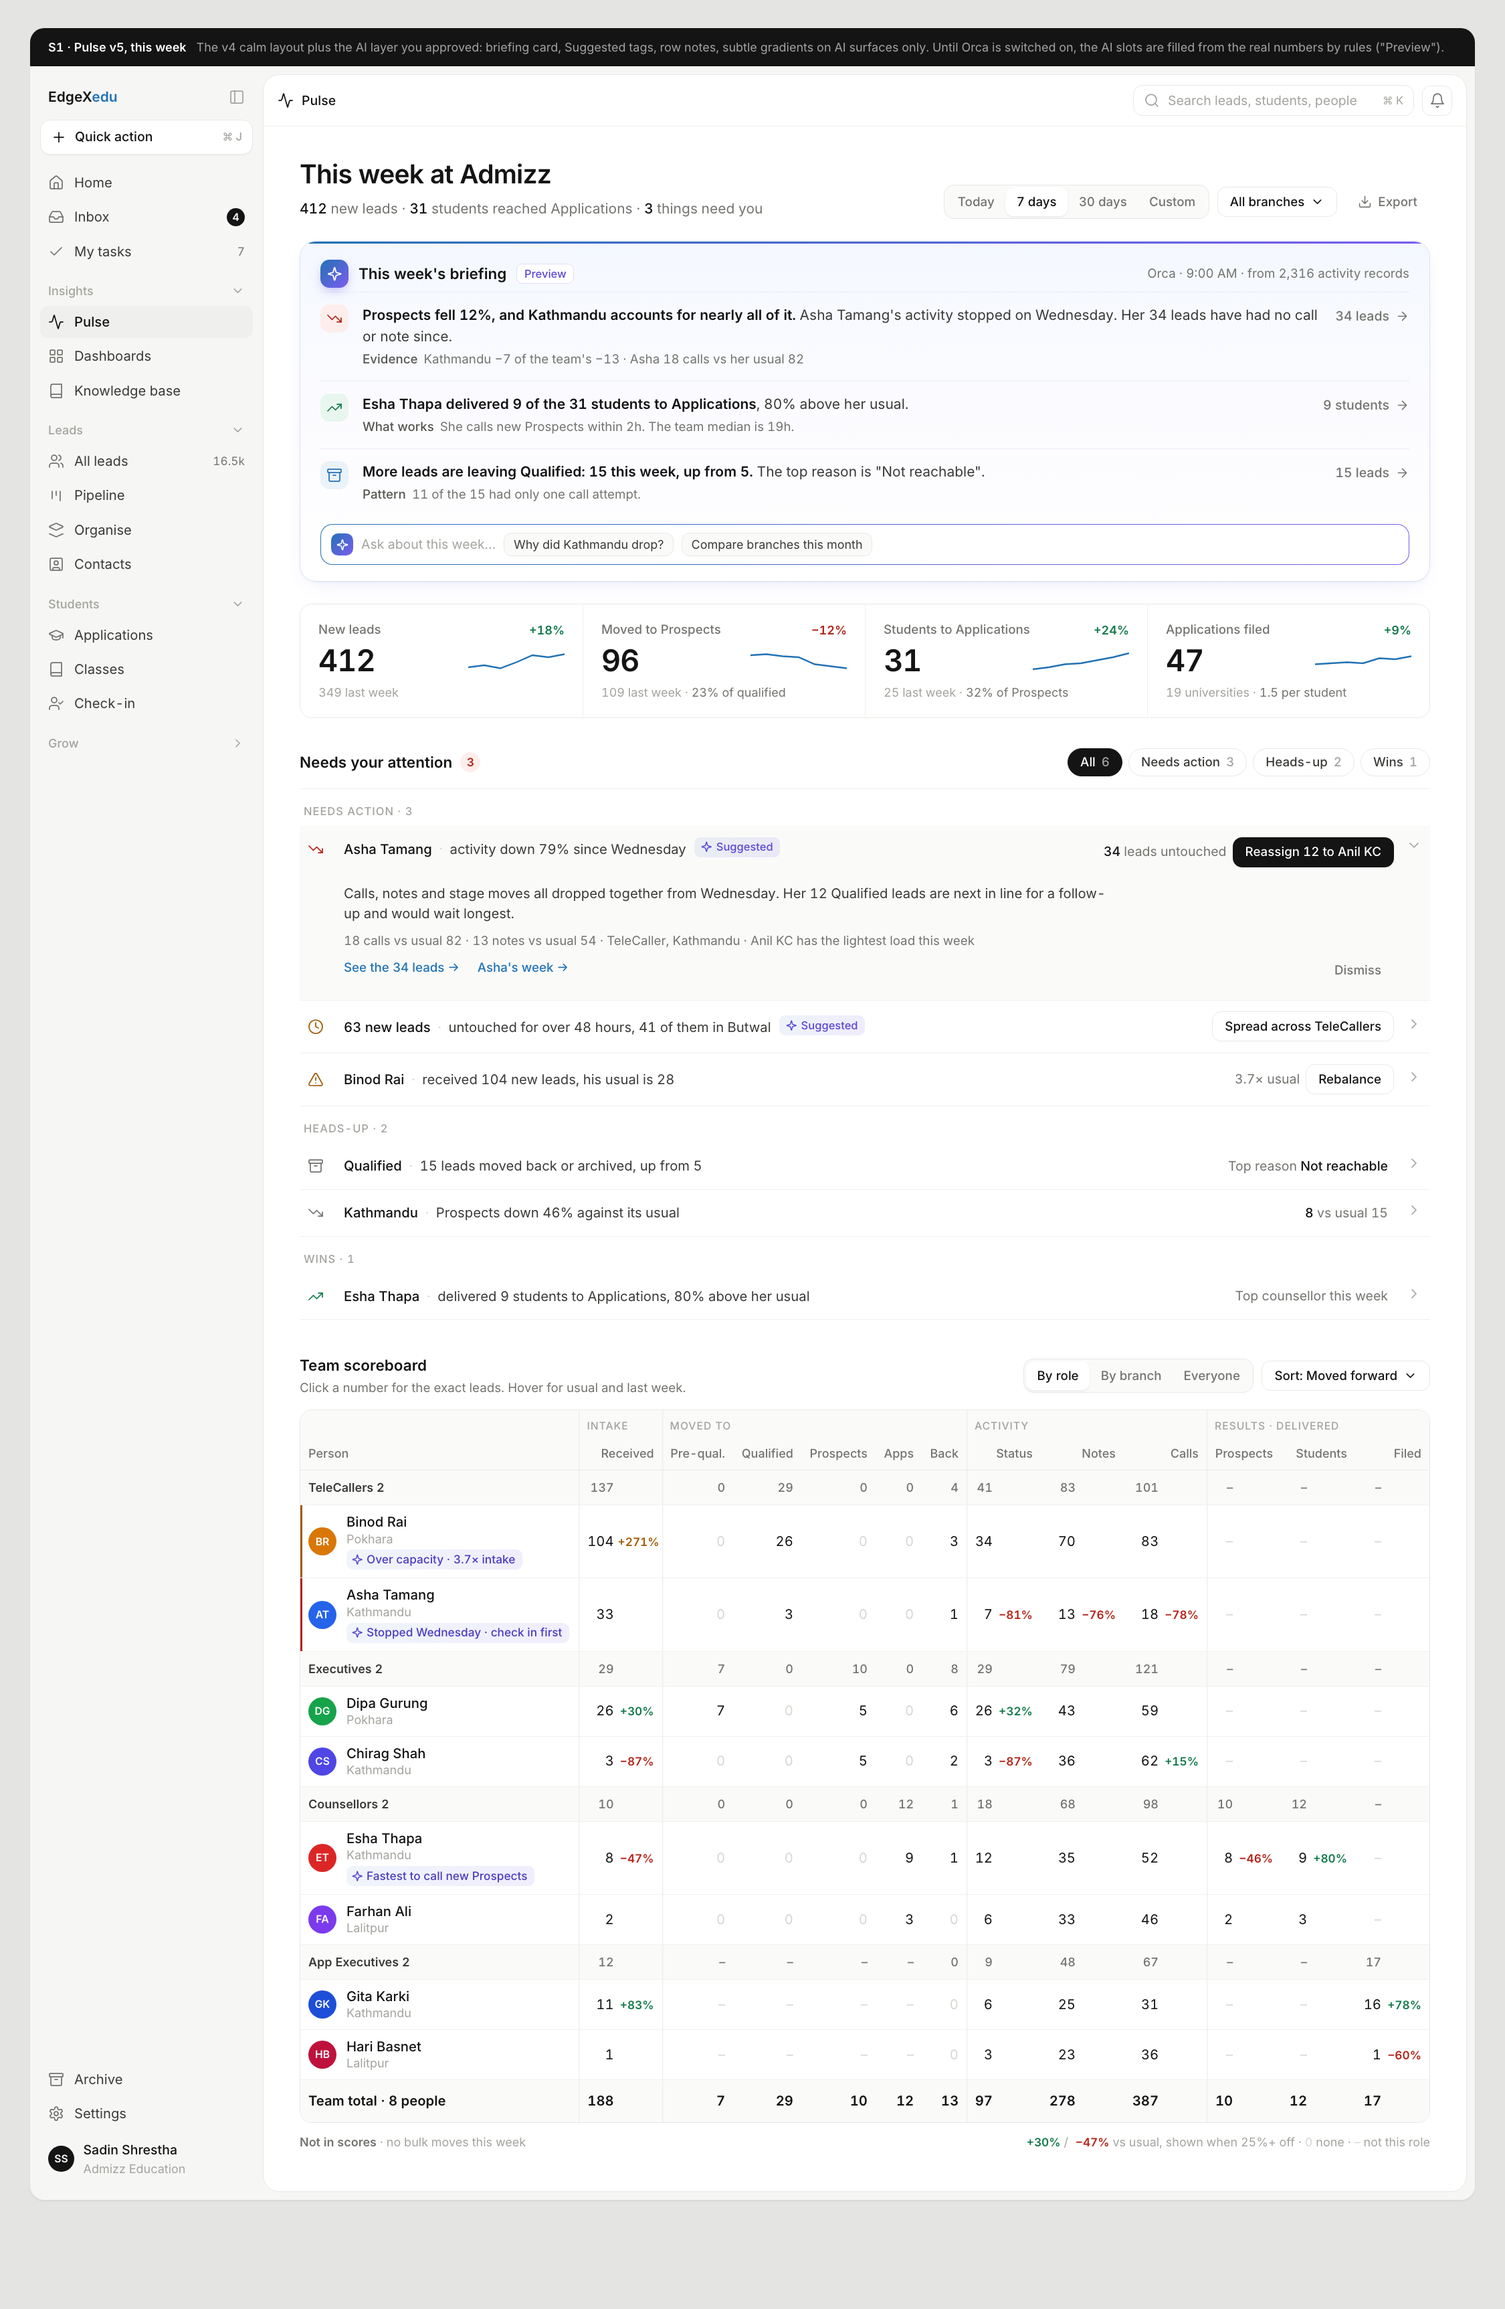
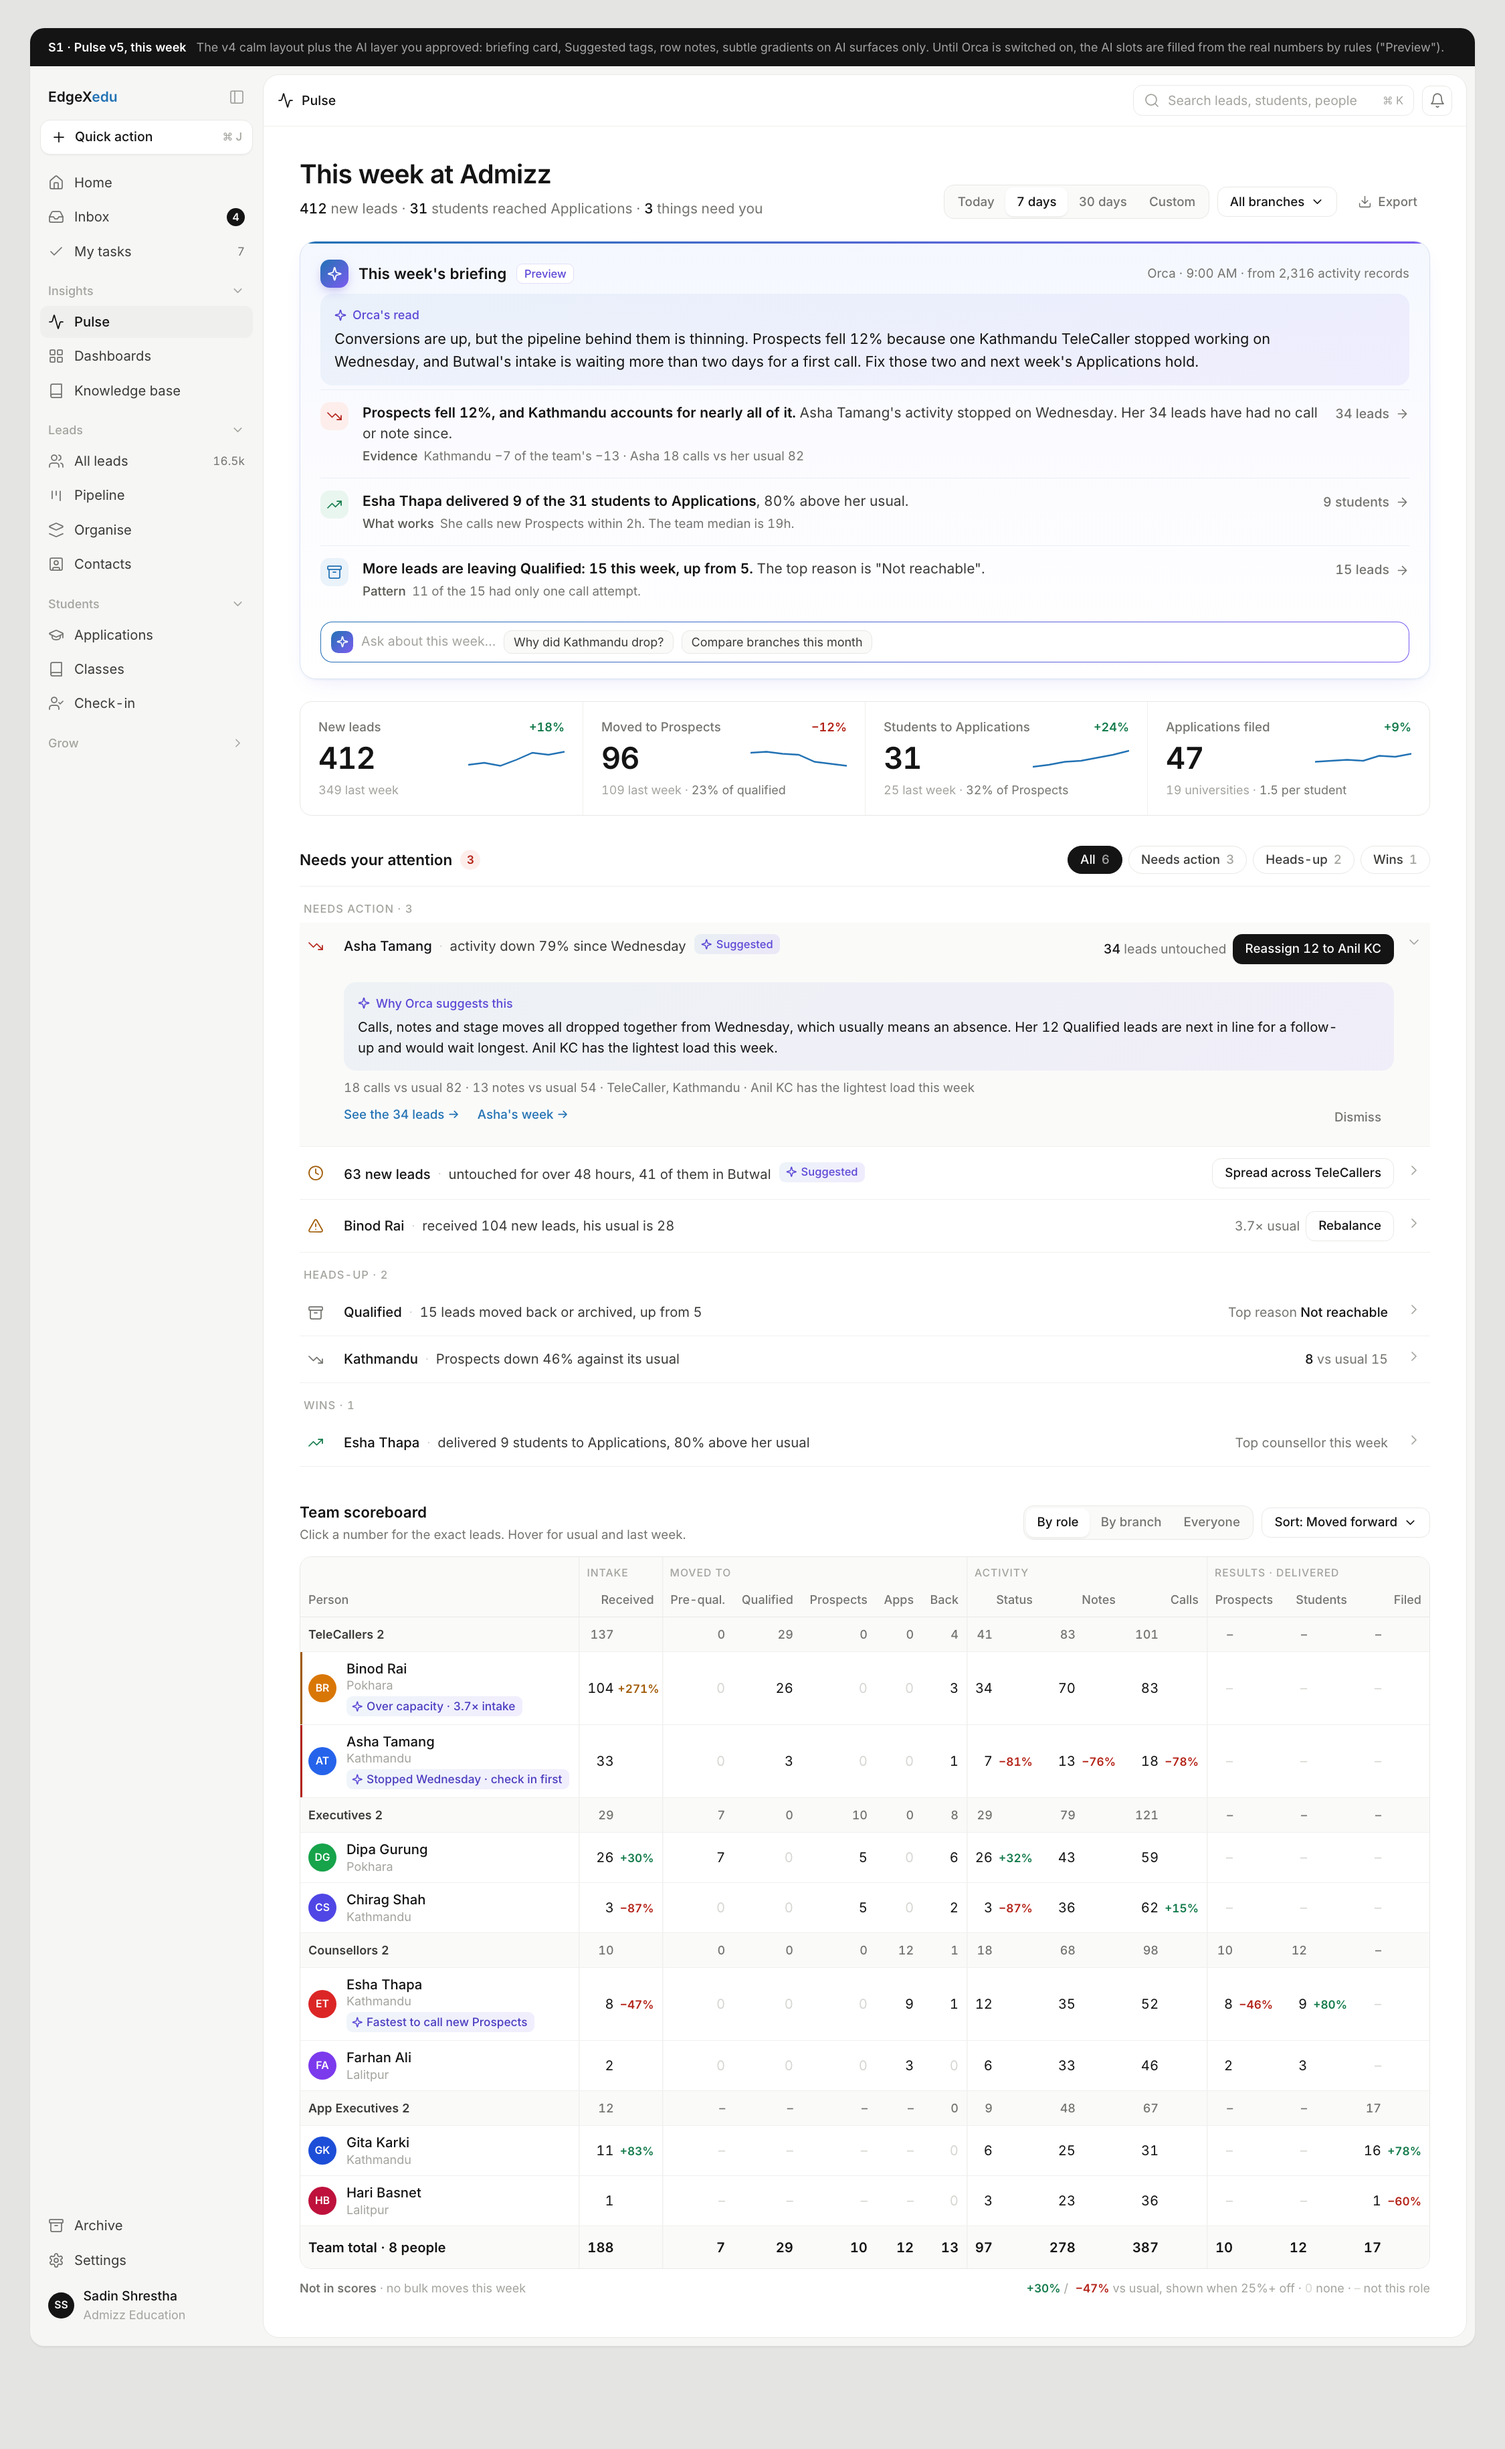
EDGEX-84: AI paragraph block (D16), Orca's read merged into briefing
(cherry picked from commit d5ce8bb5499b3e10682a03bf5620c33b5660282f)

diff --git a/docs/design-system/mockups/pulse-v5.html b/docs/design-system/mockups/pulse-v5.html
@@ -171,6 +171,10 @@ tr.rowflag-am td:first-child{box-shadow:inset 2px 0 0 var(--warn)}
 .sugg svg{width:11px;height:11px;stroke-width:2.2}
 .rnote{display:inline-flex;align-items:center;gap:4px;margin-top:3px;height:20px;padding:0 7px 0 5px;border-radius:6px;background:linear-gradient(135deg,rgba(34,114,180,.07),rgba(124,92,240,.11));color:#4a3cc0;font-size:11.5px;font-weight:500;white-space:nowrap}
 .rnote svg{width:11px;height:11px;stroke-width:2.2;color:var(--ai)}
+.read{margin:6px 0 4px;padding:12px 14px;border-radius:12px;background:linear-gradient(135deg,rgba(34,114,180,.06),rgba(124,92,240,.08));}
+.read .lb{display:flex;align-items:center;gap:6px;color:var(--ai);font-size:12px;font-weight:500;margin-bottom:4px}
+.read .lb svg{width:12px;height:12px;stroke-width:2.2}
+.read p{font-size:14.5px;line-height:1.55;color:var(--ink);max-width:980px}
 </style></head><body>
 <svg width="0" height="0" style="position:absolute">
  <symbol id="spark" viewBox="0 0 24 24"><path d="M9.937 15.5A2 2 0 0 0 8.5 14.063l-6.135-1.582a.5.5 0 0 1 0-.962L8.5 9.936A2 2 0 0 0 9.937 8.5l1.582-6.135a.5.5 0 0 1 .963 0L14.063 8.5A2 2 0 0 0 15.5 9.937l6.135 1.581a.5.5 0 0 1 0 .964L15.5 14.063a2 2 0 0 0-1.437 1.437l-1.582 6.135a.5.5 0 0 1-.963 0z"/></symbol>
@@ -254,6 +258,8 @@ tr.rowflag-am td:first-child{box-shadow:inset 2px 0 0 var(--warn)}
    <div class="brief">
     <div class="bhd"><div class="bt"><span class="badge"><svg class="i"><use href="#spark"/></svg></span>This week's briefing<span class="prev" title="Written from your data by rules. Full AI explanations switch on with Orca.">Preview</span></div>
      <span class="meta">Orca · 9:00 AM · from 2,316 activity records</span></div>
+    <div class="read"><div class="lb"><svg class="i"><use href="#spark"/></svg>Orca's read</div>
+     <p>Conversions are up, but the pipeline behind them is thinning. Prospects fell 12% because one Kathmandu TeleCaller stopped working on Wednesday, and Butwal's intake is waiting more than two days for a first call. Fix those two and next week's Applications hold.</p></div>
     <div class="bi"><span class="tg r"><svg class="i"><use href="#down"/></svg></span><div><p><b>Prospects fell 12%, and Kathmandu accounts for nearly all of it.</b> Asha Tamang's activity stopped on Wednesday. Her 34 leads have had no call or note since.</p><div class="ev"><b>Evidence</b>Kathmandu −7 of the team's −13 · Asha 18 calls vs her usual 82</div></div><span class="go">34 leads<svg class="i s"><use href="#arrow"/></svg></span></div>
     <div class="bi"><span class="tg g"><svg class="i"><use href="#up"/></svg></span><div><p><b>Esha Thapa delivered 9 of the 31 students to Applications</b>, 80% above her usual.</p><div class="ev"><b>What works</b>She calls new Prospects within 2h. The team median is 19h.</div></div><span class="go">9 students<svg class="i s"><use href="#arrow"/></svg></span></div>
     <div class="bi"><span class="tg b"><svg class="i"><use href="#archive"/></svg></span><div><p><b>More leads are leaving Qualified: 15 this week, up from 5.</b> The top reason is "Not reachable".</p><div class="ev"><b>Pattern</b>11 of the 15 had only one call attempt.</div></div><span class="go">15 leads<svg class="i s"><use href="#arrow"/></svg></span></div>
@@ -278,7 +284,7 @@ tr.rowflag-am td:first-child{box-shadow:inset 2px 0 0 var(--warn)}
      <div class="it open"><span class="ic bad"><svg class="i"><use href="#down"/></svg></span>
       <div><div class="ln"><b>Asha Tamang</b><span class="sep">·</span>activity down 79% since Wednesday<span class="sugg"><svg class="i"><use href="#spark"/></svg>Suggested</span></div></div>
       <div class="row"><span class="fig"><b>34</b> leads untouched</span><span class="btn pri">Reassign 12 to Anil KC</span></div><span class="chev"><svg class="i"><use href="#chev"/></svg></span>
-      <div class="exp"><p>Calls, notes and stage moves all dropped together from Wednesday. Her 12 Qualified leads are next in line for a follow-up and would wait longest.</p>
+      <div class="exp"><div class="read" style="margin:2px 0 0"><div class="lb"><svg class="i"><use href="#spark"/></svg>Why Orca suggests this</div><p style="font-size:13.5px">Calls, notes and stage moves all dropped together from Wednesday, which usually means an absence. Her 12 Qualified leads are next in line for a follow-up and would wait longest. Anil KC has the lightest load this week.</p></div>
        <div class="meta">18 calls vs usual 82 · 13 notes vs usual 54 · TeleCaller, Kathmandu · Anil KC has the lightest load this week</div>
        <div class="links"><span class="lnk">See the 34 leads →</span><span class="lnk">Asha's week →</span><span class="btn ghost" style="margin-left:auto;height:24px">Dismiss</span></div></div></div>
      <div class="it"><span class="ic warn"><svg class="i"><use href="#clock"/></svg></span>

diff --git a/docs/design-system/DESIGN-SYSTEM-V2.md b/docs/design-system/DESIGN-SYSTEM-V2.md
@@ -106,7 +106,11 @@ Calm everywhere else, so AI can stand out with a **subtle** signature (Sadin's c
   - a 2px blue→violet top line
   - a gradient sparkle badge
   - a faint violet shadow
+- **AI paragraph block:** any AI-written paragraph sits on a soft blue→violet wash block (radius 12) with a sparkle
+  label ("Orca's read", "Why Orca suggests this"). Examples: Orca's read, the "why" in an expanded attention row, the
+  coaching note in the person view, Ask Orca answers. Long AI text never blends into page text.
 - **Inline AI** ("Suggested" tags, row notes): a soft gradient tint pill with a violet sparkle.
+- **Size ladder:** label → pill · paragraph → wash block · whole section → full AI card (wash, top line, badge).
 - **The ask box:** a white field with a 1px blue→violet gradient border.
 - **Gradients appear ONLY on AI elements.** Plain data, tables and rule-only UI never use them, so the gradient keeps
   meaning "Orca".
@@ -133,6 +137,7 @@ Calm everywhere else, so AI can stand out with a **subtle** signature (Sadin's c
 | D9 | Scoreboard: one metric per column, groups, fixed delta slot, threshold rule, `0` vs `–`, subtotals | **9** | Fixed the "cramped" table: aligned, scannable, no blobs or chips |
 | D10 | Flags as coloured text in the person line, plus a 2px row edge | **9** | Visible without shouting; no chip clutter |
 | D11 | AI signature = subtle blue→violet gradient on AI surfaces only, plus provenance and confidence | **9.5** | Eye goes to AI first (Sadin's ask) while the rest stays calm; gradient = "Orca", never decoration |
+| D16 | Every AI paragraph sits on the gradient wash block; Orca's read is merged into the top of the briefing card | **9.5** | One AI voice and one look; summary first, proof underneath (Sadin, 2026-11-05) |
 | D15 | Preview mode: AI slots placed now and filled by rules from real data, tagged "Preview" until the LLM is on | **9.5** | The end-product feel today, with zero fake content; the LLM later just swaps the text |
 | D12 | AI suggestions live in the same attention queue, tagged "Suggested" | **9** | One place to act; AI is a teammate, not a separate inbox |
 | D13 | Docked Ask Orca rail with steps, inline charts and record links | **9** | Follow-ups without leaving context |

diff --git a/docs/design-system/PULSE-V5-BUILD-BRIEF.md b/docs/design-system/PULSE-V5-BUILD-BRIEF.md
@@ -68,3 +68,11 @@ appear only on AI elements.
    `pulse-v5-s1.png`, region by region**, and write a gap list. Fix the gaps until there are none you can't explain.
 3. Re-run the 1.0s performance gate.
 4. Report to edgexcrm-69. I verify in the browser before Sadin sees it.
+
+## Addendum (2026-11-05, Sadin): AI paragraph block
+- **The briefing card now opens with "Orca's read":** a 2–3 sentence summary on a soft gradient wash block (see
+  `pulse-v5-s1.png`), above the 3 insight rows.
+  - In Preview mode it's built by `buildBriefing()` from the top signals.
+  - Omit it when there are fewer than 2 meaningful signals.
+- **Any AI-written paragraph uses the same wash block** with a sparkle label: the expanded attention-row "why" ("Why
+  Orca suggests this") and the person-view coaching note. Rule-only text (AI fully off) renders plain.
